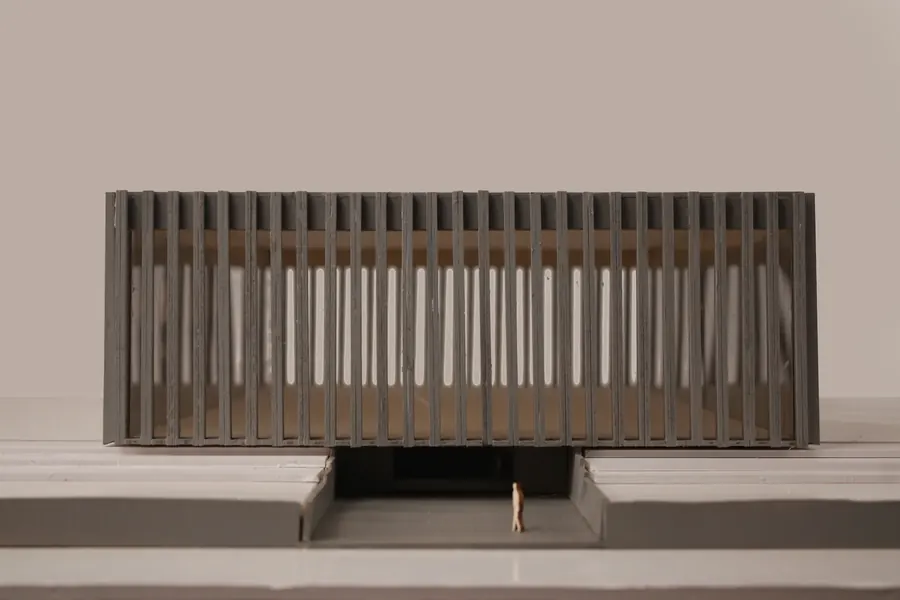
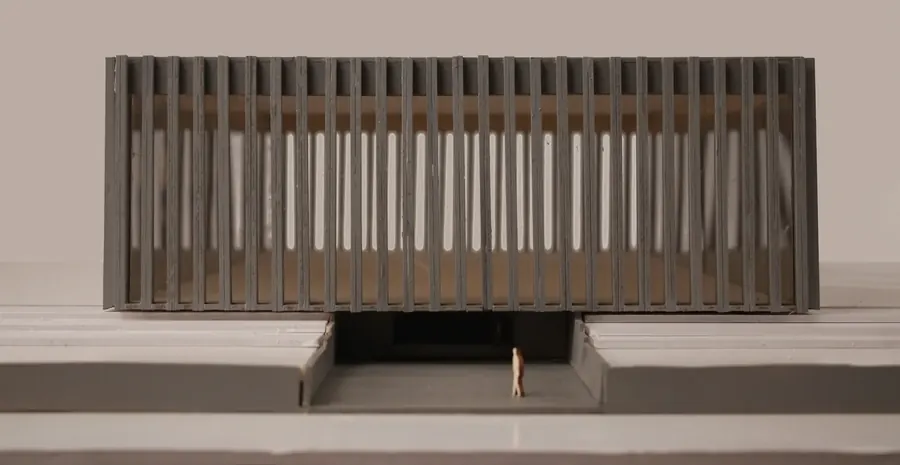
Palestra rapprochée du titre, maquette Résidence sur fond gris, nouvelle linogravure, planche des textures à côté du texte
Claude-Session: https://claude.ai/code/session_013PfFhaaiQTpQb93kGRB6QJ

diff --git a/divers/index.html b/divers/index.html
@@ -59,7 +59,7 @@
 	</section>
 	<section class="p-sub">
 		<div class="p-sub-head"><h2>Matière et texture</h2><span class="label">Licence 2 · ESA · 2026</span></div>
-		<div class="p-text" style="padding-bottom:clamp(40px,6vw,72px)">
+		<div class="p-text has-side tex">
 			<span class="label">Le projet</span>
 			<div class="body reveal">
 				<p class="lead">J’ai réalisé une série de trois approches différentes du site autour de la matérialité et de la texture.</p>
@@ -67,9 +67,7 @@
 				<p>La deuxième approche est plus texturielle. Je suis allée sur site pour prélever des empreintes de textures, puis j’ai utilisé de l’encre pour les reporter sur papier. L’encre se déposait surtout dans les zones creuses et les vides, ce qui faisait apparaître un jeu entre le plein et le vide, entre les reliefs et les espaces en retrait.</p>
 				<p>Enfin, la troisième approche consistait à traduire ces textures en volume à travers la poterie. Cette étape permettait de passer à une lecture en 3D, plus précise et plus physique, en reconstituant les reliefs.</p>
 			</div>
-		</div>
-		<div class="gallery">
-			<figure class="c12 showcase clear reveal"><img src="../assets/img/divers-textures.webp" srcset="../assets/img/divers-textures-900.webp 900w, ../assets/img/divers-textures.webp 1378w" sizes="(max-width: 760px) 90vw, 700px" alt="Projets divers — empreintes à l’encre et textures en poterie" width="1378" height="1742" loading="lazy" decoding="async" data-full="../assets/img/divers-textures.webp"><figcaption>Photographie · encre · poterie</figcaption></figure>
+			<figure class="side reveal"><img src="../assets/img/divers-textures.webp" srcset="../assets/img/divers-textures-900.webp 900w, ../assets/img/divers-textures.webp 1378w" sizes="(max-width: 860px) 100vw, 34vw" alt="Projets divers — empreintes à l’encre et textures en poterie" width="1378" height="1742" loading="lazy" decoding="async" data-full="../assets/img/divers-textures.webp"><figcaption>Photographie · encre · poterie</figcaption></figure>
 		</div>
 	</section>
 	<section class="p-sub">
@@ -79,7 +77,7 @@
 			<div class="crea-row">
 				<figure style="--r:0.5769"><img src="../assets/img/couture-face.webp" alt="Projets divers — couture : Haut asymétrique et pantalon large, cousus par mes soins." width="630" height="1092" loading="lazy" decoding="async" data-full="../assets/img/couture-face.webp"><figcaption><span class="label">Couture</span>Haut asymétrique et pantalon large, cousus par mes soins.</figcaption></figure>
 				<figure style="--r:0.8029"><img src="../assets/img/peinture-samo.webp" alt="Projets divers — peinture : Acrylique sur toile, inspirée de l’univers de Basquiat." width="660" height="822" loading="lazy" decoding="async" data-full="../assets/img/peinture-samo.webp"><figcaption><span class="label">Peinture</span>Acrylique sur toile, inspirée de l’univers de Basquiat.</figcaption></figure>
-				<figure style="--r:0.7021"><img src="../assets/img/linogravure.webp" alt="Projets divers — linogravure : Figure repliée, gravée et imprimée en noir." width="660" height="940" loading="lazy" decoding="async" data-full="../assets/img/linogravure.webp"><figcaption><span class="label">Linogravure</span>Figure repliée, gravée et imprimée en noir.</figcaption></figure>
+				<figure style="--r:0.7059"><img src="../assets/img/linogravure.webp" alt="Projets divers — linogravure : Figure repliée, gravée et imprimée en noir." width="648" height="918" loading="lazy" decoding="async" data-full="../assets/img/linogravure.webp"><figcaption><span class="label">Linogravure</span>Figure repliée, gravée et imprimée en noir.</figcaption></figure>
 			</div>
 			<div class="crea-row">
 				<figure style="--r:0.8821"><img src="../assets/img/dessin-crayon.webp" srcset="../assets/img/dessin-crayon-900.webp 900w, ../assets/img/dessin-crayon.webp 1085w" sizes="(max-width: 760px) 50vw, 33vw" alt="Projets divers — dessin : Étude du corps au crayon." width="1085" height="1230" loading="lazy" decoding="async" data-full="../assets/img/dessin-crayon.webp"><figcaption><span class="label">Dessin</span>Étude du corps au crayon.</figcaption></figure>

diff --git a/l2s1/index.html b/l2s1/index.html
@@ -37,7 +37,7 @@
 	<h1>Résidence jardins</h1>
 	<dl class="p-meta"><div><dt>Année</dt><dd>2025</dd></div><div><dt>Cadre</dt><dd>Licence 2<br>École Spéciale d’Architecture</dd></div><div><dt>Lieu</dt><dd>Montreuil</dd></div><div><dt>Programme</dt><dd>30 logements, du T2 au T5</dd></div></dl>
 </div>
-<figure class="p-hero contain"><img src="../assets/img/residence-hero.webp" srcset="../assets/img/residence-hero-900.webp 900w, ../assets/img/residence-hero.webp 2000w" sizes="100vw" alt="Résidence jardins — maquette" width="2000" height="793" fetchpriority="high" decoding="async" data-full="../assets/img/residence-hero.webp"></figure>
+<figure class="p-hero contain grey"><img src="../assets/img/residence-hero.webp" srcset="../assets/img/residence-hero-900.webp 900w, ../assets/img/residence-hero.webp 2000w" sizes="100vw" alt="Résidence jardins — maquette" width="2000" height="793" fetchpriority="high" decoding="async" data-full="../assets/img/residence-hero.webp"></figure>
 <div class="wrap">
 	<section class="p-text has-side"><span class="label">Le projet</span><div class="body reveal"><p class="lead">Ce projet de logements situé à Montreuil développe 30 logements organisés autour de trois jardins principaux, avec l’idée de placer la végétation et les espaces extérieurs au centre de l’habitat et du quotidien des habitants.</p><p>Dès ma première visite du site, ce qui m’a marquée est la manière dont la végétation s’immisce dans les interstices urbains, le long des clôtures et entre les différentes constructions. Cette présence discrète mais forte a guidé ma réflexion et m’a amenée à concevoir une architecture en continuité avec le paysage existant.</p><p>Les logements, du T2 au T5, s’organisent autour de cours et d’espaces extérieurs qui prolongent les usages du logement vers l’extérieur. Chaque appartement dispose d’un balcon, d’une loggia, d’une terrasse ou d’un jardin privé, permettant d’apporter de la lumière naturelle, d’ouvrir les vues et de créer différentes manières d’habiter.</p><p>Le projet cherche ainsi à offrir des espaces traversants, lumineux et ouverts, tout en proposant une densité urbaine capable de préserver une qualité de vie quotidienne.</p></div><figure class="side reveal"><img src="../assets/img/residence-plan.webp" alt="Résidence jardins — plan masse" width="846" height="1098" loading="lazy" decoding="async" data-full="../assets/img/residence-plan.webp"><figcaption>Plan masse</figcaption></figure></section>
 	<div class="gallery">

diff --git a/intensif/index.html b/intensif/index.html
@@ -37,7 +37,7 @@
 	<h1>La Palestra</h1>
 	<dl class="p-meta"><div><dt>Année</dt><dd>2026</dd></div><div><dt>Cadre</dt><dd>Licence 2 · semaine intensive<br>École Spéciale d’Architecture</dd></div><div><dt>Référence</dt><dd>Palestra di Losone<br>Livio Vacchini</dd></div><div><dt>Travail</dt><dd>Analyse et maquette collective</dd></div></dl>
 </div>
-<figure class="p-hero natural"><img src="../assets/img/palestra-hero.webp" srcset="../assets/img/palestra-hero-900.webp 900w, ../assets/img/palestra-hero.webp 2000w" sizes="100vw" alt="La Palestra — maquette, façade et entrée" width="2000" height="1333" fetchpriority="high" decoding="async" data-full="../assets/img/palestra-hero.webp"></figure>
+<figure class="p-hero natural"><img src="../assets/img/palestra-hero.webp" srcset="../assets/img/palestra-hero-900.webp 900w, ../assets/img/palestra-hero.webp 2000w" sizes="100vw" alt="La Palestra — maquette, façade et entrée" width="2000" height="1033" fetchpriority="high" decoding="async" data-full="../assets/img/palestra-hero.webp"></figure>
 <div class="wrap">
 	<section class="p-text"><span class="label">Le projet</span><div class="body reveal"><p class="lead">En deuxième année, nous avons travaillé lors d’une semaine intensive en groupe autour de la Palestra di Losone, conçue par Livio Vacchini.</p><p>Ce projet nous a amenés à analyser son architecture, notamment la rigueur de sa structure et la simplicité de ses formes, puis à en proposer une interprétation à travers la réalisation d’une maquette.</p><p>Ce travail collectif nous a permis de développer une réflexion commune et une compréhension concrète du projet architectural.</p></div></section>
 	<div class="gallery">

diff --git a/assets/style.css b/assets/style.css
@@ -366,3 +366,11 @@ a:hover .more .arrow, .more:hover .arrow { transform: translateX(6px); }
 	.crea figure { flex: 0 0 calc(50% - 7px); }
 	.crea-row figure:last-child:nth-child(odd) { flex-basis: 100%; }
 }
+
+/* Résidence jardins : fond gris de la maquette, sans cadre */
+.p-hero.contain.grey { background: rgb(205, 205, 205); }
+.p-hero.contain.grey img { padding: 0; max-height: 78vh; }
+/* La Palestra : titre plus proche de l’image */
+.tone-beige .p-head { padding-bottom: clamp(24px, 3vw, 36px); }
+/* Matière et texture : planche à côté du texte */
+.p-text.tex .side img { filter: drop-shadow(0 14px 22px rgba(0, 0, 0, .12)); }
